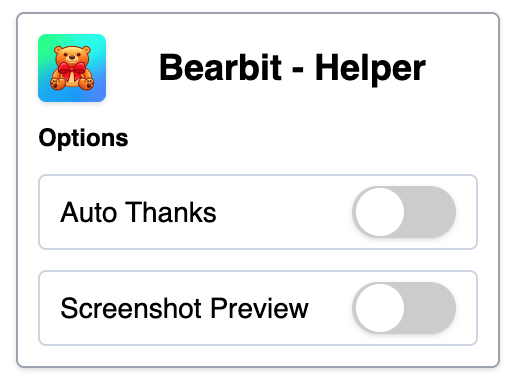
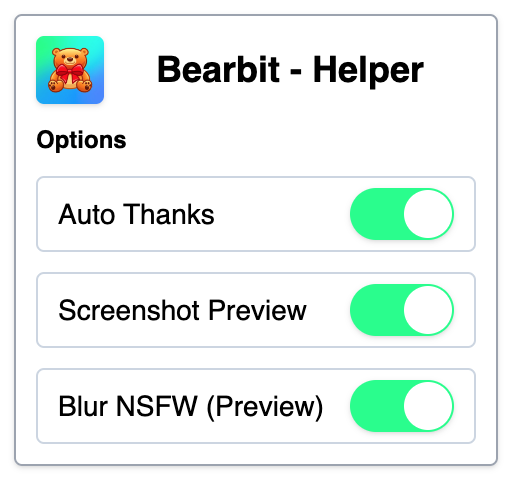
feat: :sparkles: blur nsfw preview content

Changed region(s): [[0.0, 0.0312, 1.0, 0.9688], [0.2812, 0.0938, 0.8438, 0.25]]

diff --git a/src/modules/screenshot.ts b/src/modules/screenshot.ts
@@ -1,6 +1,12 @@
+import { enableBlurNsfw } from "./nsfw";
+
 const allowedExtensions = ["jpg", "jpeg", "png", "gif"];
 
-function createImageElement(src: string, maxWidth: string, maxHeight: string): HTMLImageElement {
+function createImageElement(
+  src: string,
+  maxWidth: string,
+  maxHeight: string
+): HTMLImageElement {
   const img = document.createElement("img");
   img.src = src;
   img.style.maxWidth = maxWidth;
@@ -20,53 +26,88 @@ function insertScreenshotCellInTable(tableSelector: string) {
       newCell.setAttribute("bearbit-helper", "screenshot");
       newCell.setAttribute("width", "120");
       newCell.setAttribute("align", "center");
-      newCell.setAttribute("bgcolor", siblingCell.getAttribute("bgcolor") ?? "");
+      newCell.setAttribute(
+        "bgcolor",
+        siblingCell.getAttribute("bgcolor") ?? ""
+      );
 
       if (i === 0) {
         newCell.classList.add("colhead");
         newCell.textContent = "รูปภาพตัวอย่าง";
       } else {
-        const cameraIcon = row.querySelector('[title="รูปภาพตัวอย่าง"], [title="รูปภาพ"]') as HTMLElement;
         let extension = "";
 
+        const cameraIcon = row.querySelector(
+          '[title="รูปภาพตัวอย่าง"], [title="รูปภาพ"]'
+        ) as HTMLElement;
+
         if (cameraIcon) {
-          extension = (cameraIcon.parentNode as HTMLAnchorElement).href.split(".").pop() ?? ""
+          extension =
+            (cameraIcon.parentNode as HTMLAnchorElement).href
+              .split(".")
+              .pop() ?? "";
         }
 
         if (allowedExtensions.indexOf(extension) !== -1) {
-          const img = createImageElement((cameraIcon.parentNode as HTMLAnchorElement).href, "120px", "150px");
+          const img = createImageElement(
+            (cameraIcon.parentNode as HTMLAnchorElement).href,
+            "120px",
+            "150px"
+          );
+
           newCell.appendChild(img);
+          newCell.setAttribute("bearbit-screenshot", "preview");
         } else {
-          const img = createImageElement("https://i.imgur.com/eScU17W.png", "64px", "64px");
+          const img = createImageElement(
+            "https://i.imgur.com/eScU17W.png",
+            "64px",
+            "64px"
+          );
           img.style.marginLeft = "10px";
           newCell.appendChild(img);
+          newCell.setAttribute("bearbit-screenshot", "no-preview");
         }
       }
     }
   }
 }
 
-function enableScreenshot() {
+function enableScreenshot(blurNsfw: boolean) {
   const path = window.location.pathname;
   if (path === "/" || path === "/index.php") {
-    insertScreenshotCellInTable("body > table.mainouter > tbody > tr:nth-child(3) > td > table > tbody > tr > td > table:nth-child(6)");
+    insertScreenshotCellInTable(
+      "body > table.mainouter > tbody > tr:nth-child(3) > td > table > tbody > tr > td > table:nth-child(6)"
+    );
   }
 
   if (path === "/viewno18sb.php" || path === "/viewbrsb.php") {
-    insertScreenshotCellInTable("body > table.mainouter > tbody > tr:nth-child(3) > td > table");
+    insertScreenshotCellInTable(
+      "body > table.mainouter > tbody > tr:nth-child(3) > td > table"
+    );
+  }
+
+  if (blurNsfw) {
+    enableBlurNsfw();
   }
 }
 
 function disableScreenshot() {
   const path = window.location.pathname;
-  
-  if (path === "/" || path === "/index.php" || path === "/viewno18sb.php" || path === "/viewbrsb.php") {
-    const screenshots = document.querySelectorAll('[bearbit-helper="screenshot"]');
-    
+
+  if (
+    path === "/" ||
+    path === "/index.php" ||
+    path === "/viewno18sb.php" ||
+    path === "/viewbrsb.php"
+  ) {
+    const screenshots = document.querySelectorAll(
+      '[bearbit-helper="screenshot"]'
+    );
+
     if (screenshots) {
       screenshots.forEach((elem) => elem.remove());
     }
   }
 }
 
-export { enableScreenshot, disableScreenshot }
+export { enableScreenshot, disableScreenshot };

diff --git a/src/modules/nsfw.ts b/src/modules/nsfw.ts
@@ -1,0 +1,77 @@
+const nsfwCategory = [
+  "901",
+  "902",
+  "903",
+  "904",
+  "905",
+  "906",
+  "907",
+  "908",
+  "910",
+  "911",
+  "912",
+];
+
+function enableBlurNsfw() {
+  const path = window.location.pathname;
+
+  if (
+    path === "/" ||
+    path === "/index.php" ||
+    path === "/viewno18sb.php" ||
+    path === "/viewbrsb.php"
+  ) {
+    const screenshots = document.querySelectorAll(
+      '[bearbit-screenshot="preview"]'
+    );
+
+    if (screenshots) {
+      screenshots.forEach((td) => {
+        const row = td.parentNode;
+        if (row) {
+          // get category id
+          const category = row.querySelector("td > a") as HTMLLinkElement;
+          let categoryId = "";
+          if (category) {
+            const categoryUrl = category.href.split("?").pop() ?? "";
+            const categoryParams = new URLSearchParams(categoryUrl);
+            categoryId = categoryParams.get("cat") ?? "";
+          }
+          // blur nsfw
+          if (nsfwCategory.indexOf(categoryId) !== -1) {
+            const img = td.firstElementChild;
+            if (img) {
+              (img as HTMLImageElement).style.filter = "blur(5px)";
+            }
+          }
+        }
+      });
+    }
+  }
+}
+
+function disableBlurNsfw() {
+  const path = window.location.pathname;
+
+  if (
+    path === "/" ||
+    path === "/index.php" ||
+    path === "/viewno18sb.php" ||
+    path === "/viewbrsb.php"
+  ) {
+    const screenshots = document.querySelectorAll(
+      '[bearbit-screenshot="preview"] > img'
+    );
+
+    if (screenshots) {
+      screenshots.forEach((img) => {
+        var styles = window.getComputedStyle(img);
+        if (styles.getPropertyValue("filter")) {
+          (img as HTMLImageElement).style.removeProperty("filter");
+        }
+      });
+    }
+  }
+}
+
+export { enableBlurNsfw, disableBlurNsfw };

diff --git a/src/content.ts b/src/content.ts
@@ -1,5 +1,6 @@
 import { enableAutoThanks } from "./modules/thanks";
 import { enableScreenshot, disableScreenshot } from "./modules/screenshot";
+import { enableBlurNsfw, disableBlurNsfw } from "./modules/nsfw";
 
 function autoThanksHandler() {
   chrome.storage.sync.get("autoThanksEnabled", ({ autoThanksEnabled }) => {
@@ -11,9 +12,20 @@ function autoThanksHandler() {
 }
 
 function screenshotHandler() {
-  chrome.storage.sync.get("screenshotEnabled", ({ screenshotEnabled }) => {
-    const enabled = screenshotEnabled || false;
-    enabled ? enableScreenshot() : disableScreenshot();
+  chrome.storage.sync.get(
+    ["screenshotEnabled", "blurNsfwEnabled"],
+    ({ screenshotEnabled, blurNsfwEnabled }) => {
+      const enabled = screenshotEnabled || false;
+      const enabledBlur = blurNsfwEnabled || false;
+      enabled ? enableScreenshot(enabledBlur) : disableScreenshot();
+    }
+  );
+}
+
+function blurNsfwHandler() {
+  chrome.storage.sync.get("blurNsfwEnabled", ({ blurNsfwEnabled }) => {
+    const enabled = blurNsfwEnabled || false;
+    enabled ? enableBlurNsfw() : disableBlurNsfw();
   });
 }
 
@@ -26,11 +38,16 @@ chrome.storage.onChanged.addListener(function (changes, namespace) {
   if (changes.screenshotEnabled) {
     screenshotHandler();
   }
+
+  if (changes.blurNsfwEnabled) {
+    blurNsfwHandler();
+  }
 });
 
 function main() {
   autoThanksHandler();
   screenshotHandler();
+  blurNsfwHandler();
 }
 
 main();

diff --git a/src/popup.html b/src/popup.html
@@ -16,6 +16,7 @@
       <div id="options">
         <span class="text-xs font-bold">Options</span>
         <!-- options item -->
+        <!-- auto thank -->
         <div class="item">
           <span class="text-sm">Auto Thanks</span>
           <label class="switch">
@@ -23,10 +24,19 @@
             <span class="slider"></span>
           </label>
         </div>
+        <!-- screenshot preview -->
         <div class="item">
           <span class="text-sm">Screenshot Preview</span>
           <label class="switch">
             <input type="checkbox" id="toggleScreenshot" />
+            <span class="slider"></span>
+          </label>
+        </div>
+        <!-- blur nsfw (preview) -->
+        <div class="item">
+          <span class="text-sm">Blur NSFW (Preview)</span>
+          <label class="switch">
+            <input type="checkbox" id="toggleBlurNsfw" />
             <span class="slider"></span>
           </label>
         </div>

diff --git a/src/popup.ts b/src/popup.ts
@@ -1,4 +1,4 @@
-import './popup.css';
+import "./popup.css";
 
 document.addEventListener("DOMContentLoaded", () => {
   // Function to handle toggle settings
@@ -14,9 +14,12 @@ document.addEventListener("DOMContentLoaded", () => {
     });
   }
 
-  // AutoThanks Toggle
+  // AutoThanks toggle
   toggleSetting("autoThanksEnabled", "toggleAutoThanks");
 
   // Screenshot toggle
   toggleSetting("screenshotEnabled", "toggleScreenshot");
+
+  // Blur NSFW toggle
+  toggleSetting("blurNsfwEnabled", "toggleBlurNsfw");
 });
